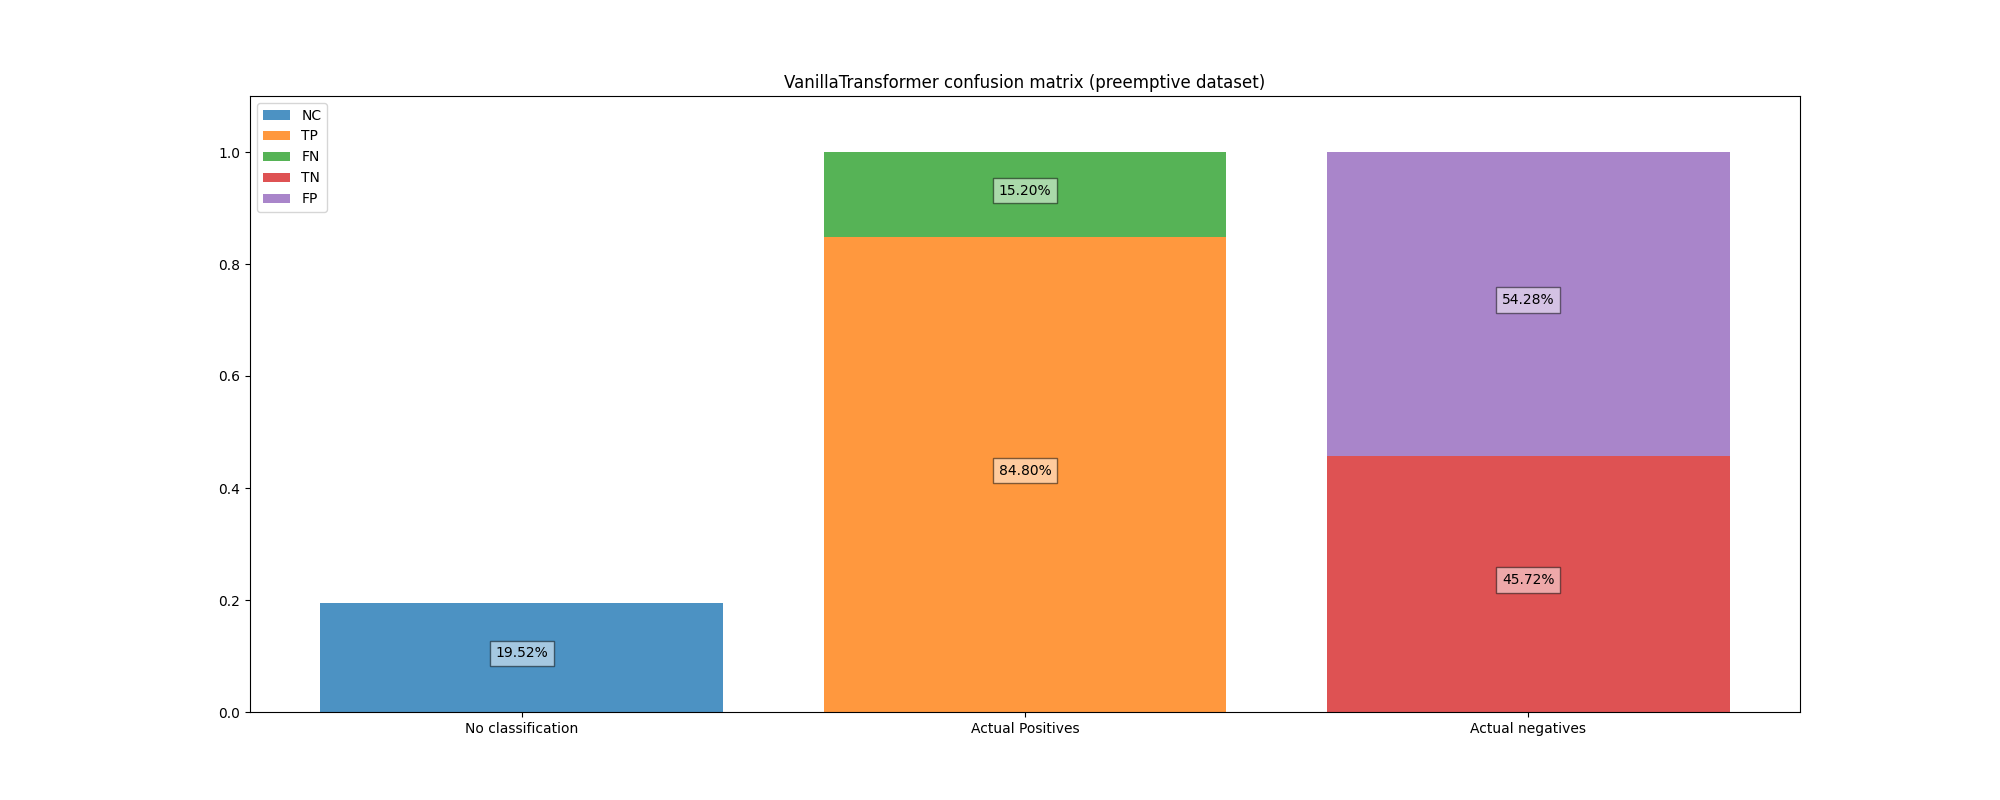
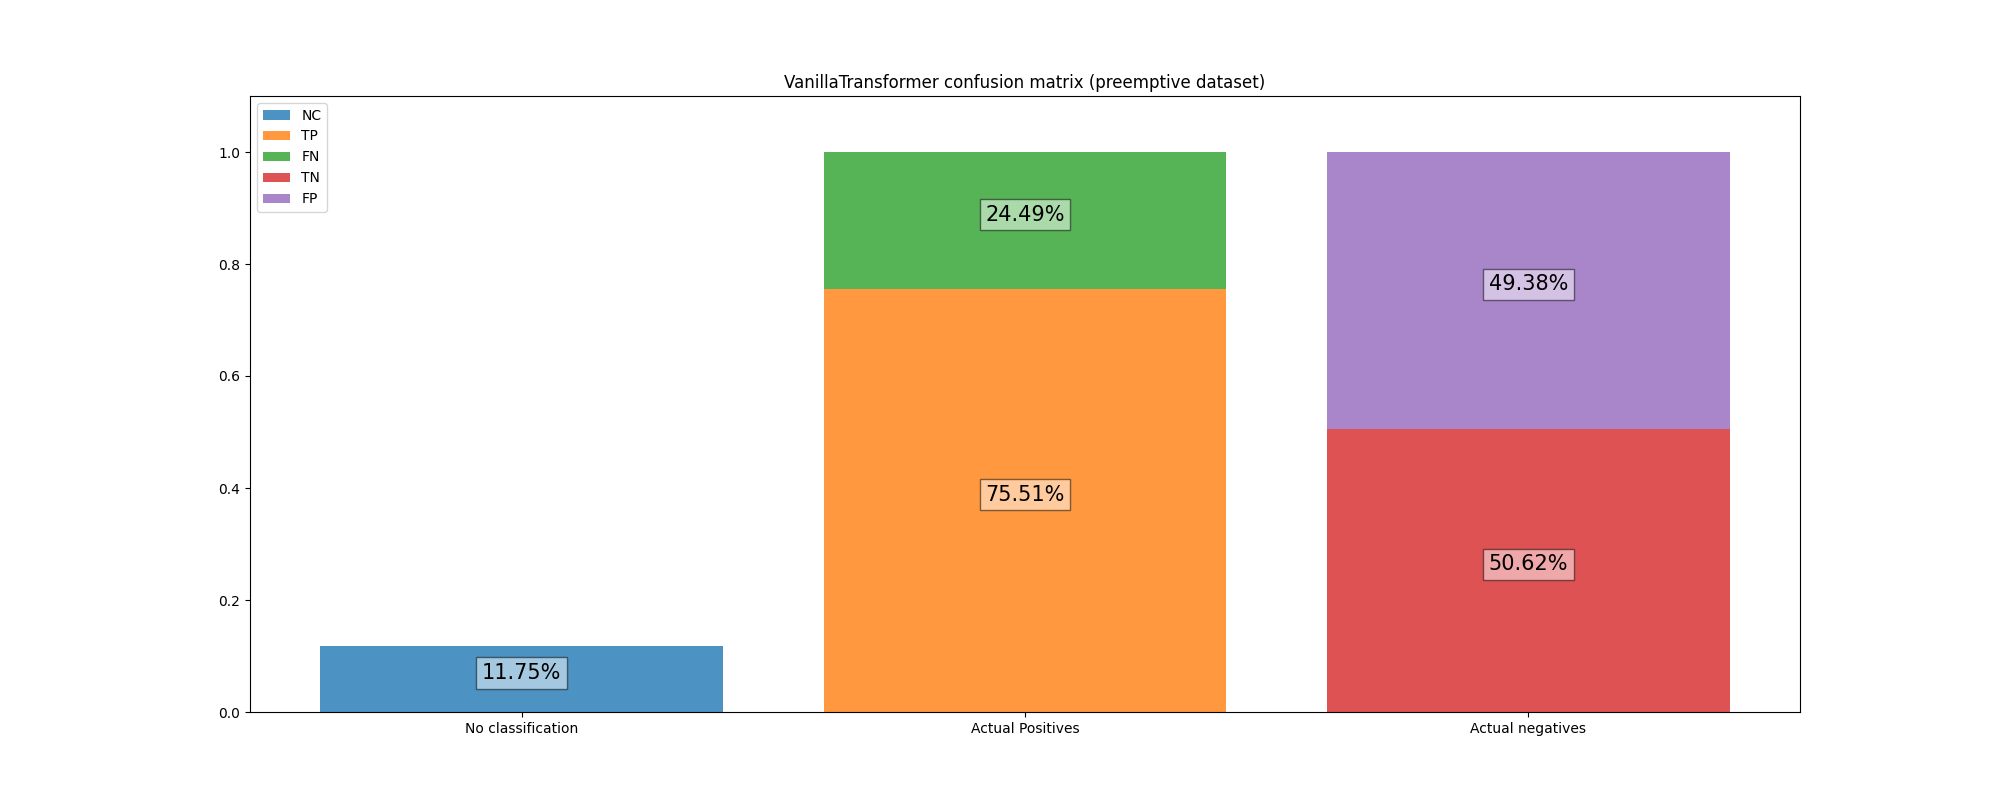
All models evaluated on unseen data

diff --git a/src/model_evaluation/test_model_eval_data.py b/src/model_evaluation/test_model_eval_data.py
@@ -38,6 +38,9 @@ if __name__ == '__main__':
     X_data, Y_data = None, None
 
     if MODE == 'create_data':
+        if not os.path.exists('../../data/eval_data/'):
+            os.makedirs('../../data/eval_data/')
+
         dp = DataPreprocessing(sampling='none', data='preemptive')
         dp.run(verbose=True)
 
@@ -72,8 +75,8 @@ if __name__ == '__main__':
         # model_names = ['FCN']
         # model_names = ['RNN']
         # model_names = ['VanillaTransformer']
-        model_names = ['OOP_Transformer_small']
-        # model_names = ['OOP_Transformer']
+        # model_names = ['OOP_Transformer_small']
+        model_names = ['OOP_Transformer']
 
         results = dict.fromkeys(
             model_names,
@@ -105,7 +108,7 @@ if __name__ == '__main__':
                     mlp_dropout=mlp_dropout,
                     mlp_units=mlp_units,
                     save_model=True,
-                    verbose=True
+                    verbose=False
                 )
                 transformer.compile()
                 model = transformer.model
@@ -120,7 +123,6 @@ if __name__ == '__main__':
                 dropout_rate = 0.25
                 mlp_dropout = 0.4
                 mlp_units = [128]
-
                 transformer.build(
                     X_sample=X_data[:32],
                     num_layers=num_layers,
@@ -132,8 +134,9 @@ if __name__ == '__main__':
                     mlp_dropout=mlp_dropout,
                     mlp_units=mlp_units,
                     save_model=True,
-                    verbose=True
+                    verbose=False
                 )
+
                 transformer.compile()
                 model = transformer.model
                 model.load_weights(f'../saved_models/{model_name}/').expect_partial()

diff --git a/src/model_evaluation/plot_model_evaluation.py b/src/model_evaluation/plot_model_evaluation.py
@@ -56,7 +56,8 @@ def stacked_conf_mat_bar_plot(conf_mat: dict, model_name: str, save_plot: bool =
                 bar.get_height() + bar.get_y() - (bar.get_height() / 2),
                 f'{bar.get_height() * 100:.2f}%',
                 ha='center',
-                bbox=dict(facecolor='white', alpha=.5)
+                bbox=dict(facecolor='white', alpha=.5),
+                fontsize=15
             )
 
     axes.legend()

diff --git a/src/model_builds/OOPTransformer.py b/src/model_builds/OOPTransformer.py
@@ -61,10 +61,6 @@ class OOPTransformer:
             print(self.model.summary())
 
 
-        if save_model:
-            self.model.save_weights(filepath=self.file_name)
-
-
     def compile(self):
         # learning_rate = CustomSchedule()
         learning_rate = 1e-4
